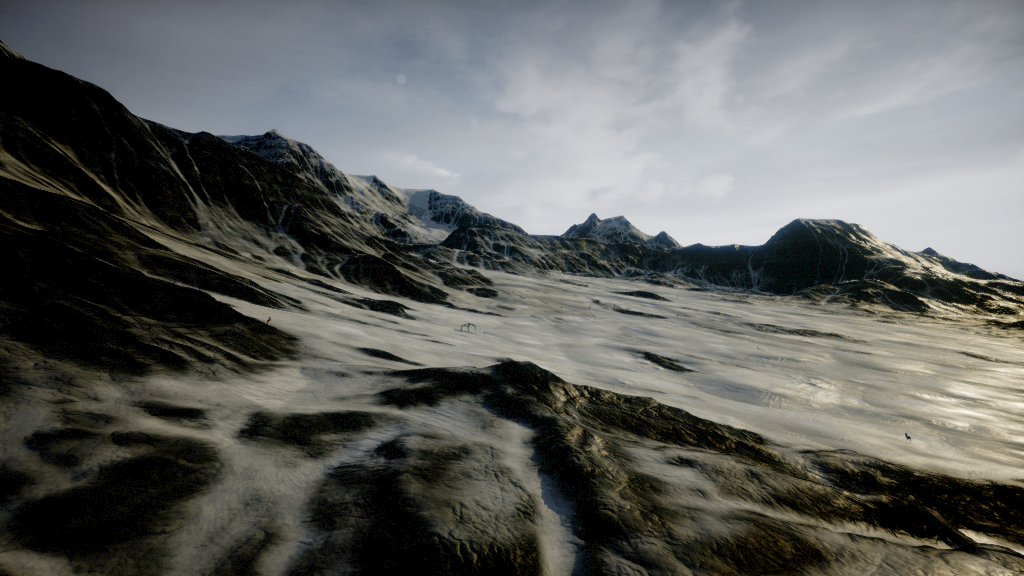
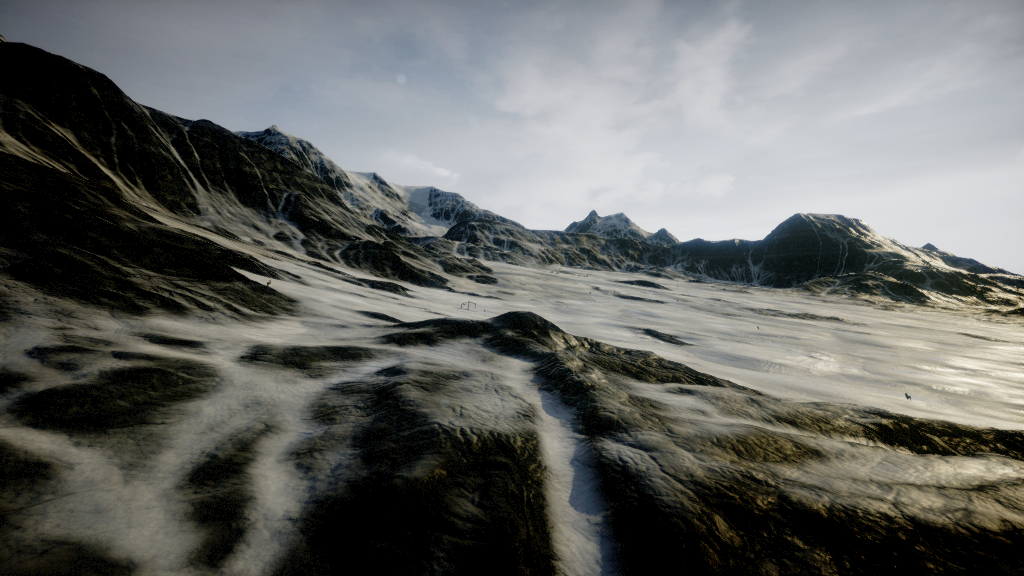
coordinate calculation test

diff --git a/coordinate_calculate_test.py b/coordinate_calculate_test.py
@@ -13,6 +13,14 @@ drone = "0"
 camera_name = "front-" + drone
 
 
+def move_drone_relative(drone_name, x, y, z, speed):
+    state = client.getMultirotorState(vehicle_name=drone_name)
+    current_position = state.kinematics_estimated.position
+    new_position = airsim.Vector3r(current_position.x_val + x, current_position.y_val + y, current_position.z_val + z)    
+    client.moveToPositionAsync(new_position.x_val, new_position.y_val, new_position.z_val, speed, vehicle_name=drone_name).join()
+    return new_position
+
+
 def get_real_world_coordinates(client, pixel_x, pixel_y, camera_name, drone_name):
     # === Get Drone & LiDAR State ===
     drone_state = client.getMultirotorState().kinematics_estimated
@@ -31,10 +39,14 @@ def get_real_world_coordinates(client, pixel_x, pixel_y, camera_name, drone_name
     if responses and responses[0].height > 0:
         img_width = responses[0].width
         img_height = responses[0].height
+        img_data = responses[0].image_data_uint8
     else:
         print("Error: Could not retrieve image dimensions.")
         img_width, img_height = 640, 480  # Default fallback values
     fov_rad = np.deg2rad(cam_info.fov)
+
+    img = np.frombuffer(img_data, dtype=np.uint8).reshape(img_height, img_width, 3)
+    img_copy = img.copy()
 
     # Compute focal length in pixels
     f_x = (img_width / 2) / np.tan(fov_rad / 2)
@@ -85,6 +97,10 @@ def get_real_world_coordinates(client, pixel_x, pixel_y, camera_name, drone_name
     closest_idx = np.argmin(distances)
     Z_actual = depth_values[closest_idx]
 
+
+    # Draw a circle on the image at the selected pixel (where the calculation was intended)
+    cv2.circle(img_copy, (pixel_x, pixel_y), radius=5, color=(0, 255, 0), thickness=-1)  # Green circle
+
     # Convert Pixel to Camera Coordinates
     X_c = (pixel_x - c_x) * Z_actual / f_x
     Y_c = (pixel_y - c_y) * Z_actual / f_y
@@ -92,7 +108,7 @@ def get_real_world_coordinates(client, pixel_x, pixel_y, camera_name, drone_name
     # Convert Camera Coordinates to World Coordinates
     world_coords = np.dot(rotation_matrix, np.array([X_c, Y_c, Z_actual])) + np.array([drone_pos.x_val, drone_pos.y_val, drone_pos.z_val])
 
-    return world_coords[0], world_coords[1], world_coords[2]  # (X, Y, Z in world frame)
+    return world_coords[0], world_coords[1], world_coords[2], img_copy  # (X, Y, Z in world frame)
 
 
 
@@ -128,7 +144,7 @@ client.armDisarm(True, vehicle_name=drone)
 
 # Async methods returns Future. Call join() to wait for task to complete.
 client.takeoffAsync(vehicle_name=drone).join()
-client.moveToPositionAsync(0, 0, -30, 5).join()
+client.moveToPositionAsync(0, 0, -20, 5).join()
 
 
 response = client.simGetImage(camera_name=camera_name, image_type=airsim.ImageType.Scene, vehicle_name=drone)
@@ -143,11 +159,32 @@ cv2.imwrite(os.path.normpath(filename + '.png'), img_rgb) # write to png
 
 
 
-real_world_x, real_world_y, real_world_z = get_real_world_coordinates(client, pixel_x, pixel_y, camera_name, drone)
+real_world_x, real_world_y, real_world_z, img = get_real_world_coordinates(client, pixel_x, pixel_y, camera_name, drone)
 print(f"Real-world coordinates: ({real_world_x}, {real_world_y}, {real_world_z})")
-client.moveToGPSAsync(real_world_x, real_world_y, real_world_z, 5, vehicle_name=drone).join()
+# print("First GPS coordinates: ", client.getMultirotorState().gps_location)
+# Show the image with the circle
+cv2.imshow("Image with LiDAR Projection", img)
+cv2.waitKey(0)
+cv2.destroyAllWindows()
 
 
+
+
+# gps_data = client.getGpsData(vehicle_name=drone)
+# gps_al = gps_data.gnss.geo_point.altitude
+# gps_lat = gps_data.gnss.geo_point.latitude
+# gps_lon = gps_data.gnss.geo_point.longitude
+# print(f"GPS coordinates: ({gps_lat}, {gps_lon}, {gps_al})")
+
+# new_x = real_world_x - gps_lat
+# new_y = real_world_y - gps_lon
+# new_z = real_world_z + gps_al
+# print(f"New GPS coordinates: ({new_x}, {new_y}, {new_z})")
+
+# client.moveToGPSAsync(new_x, new_y, new_z, 5).join()
+
+# print("Second GPS coordinates: ", client.getMultirotorState().gps_location)
+move_drone_relative(drone, -real_world_x * 11, -real_world_y * 11, 0, 5)
 
 # end connection
 client.enableApiControl(False)
